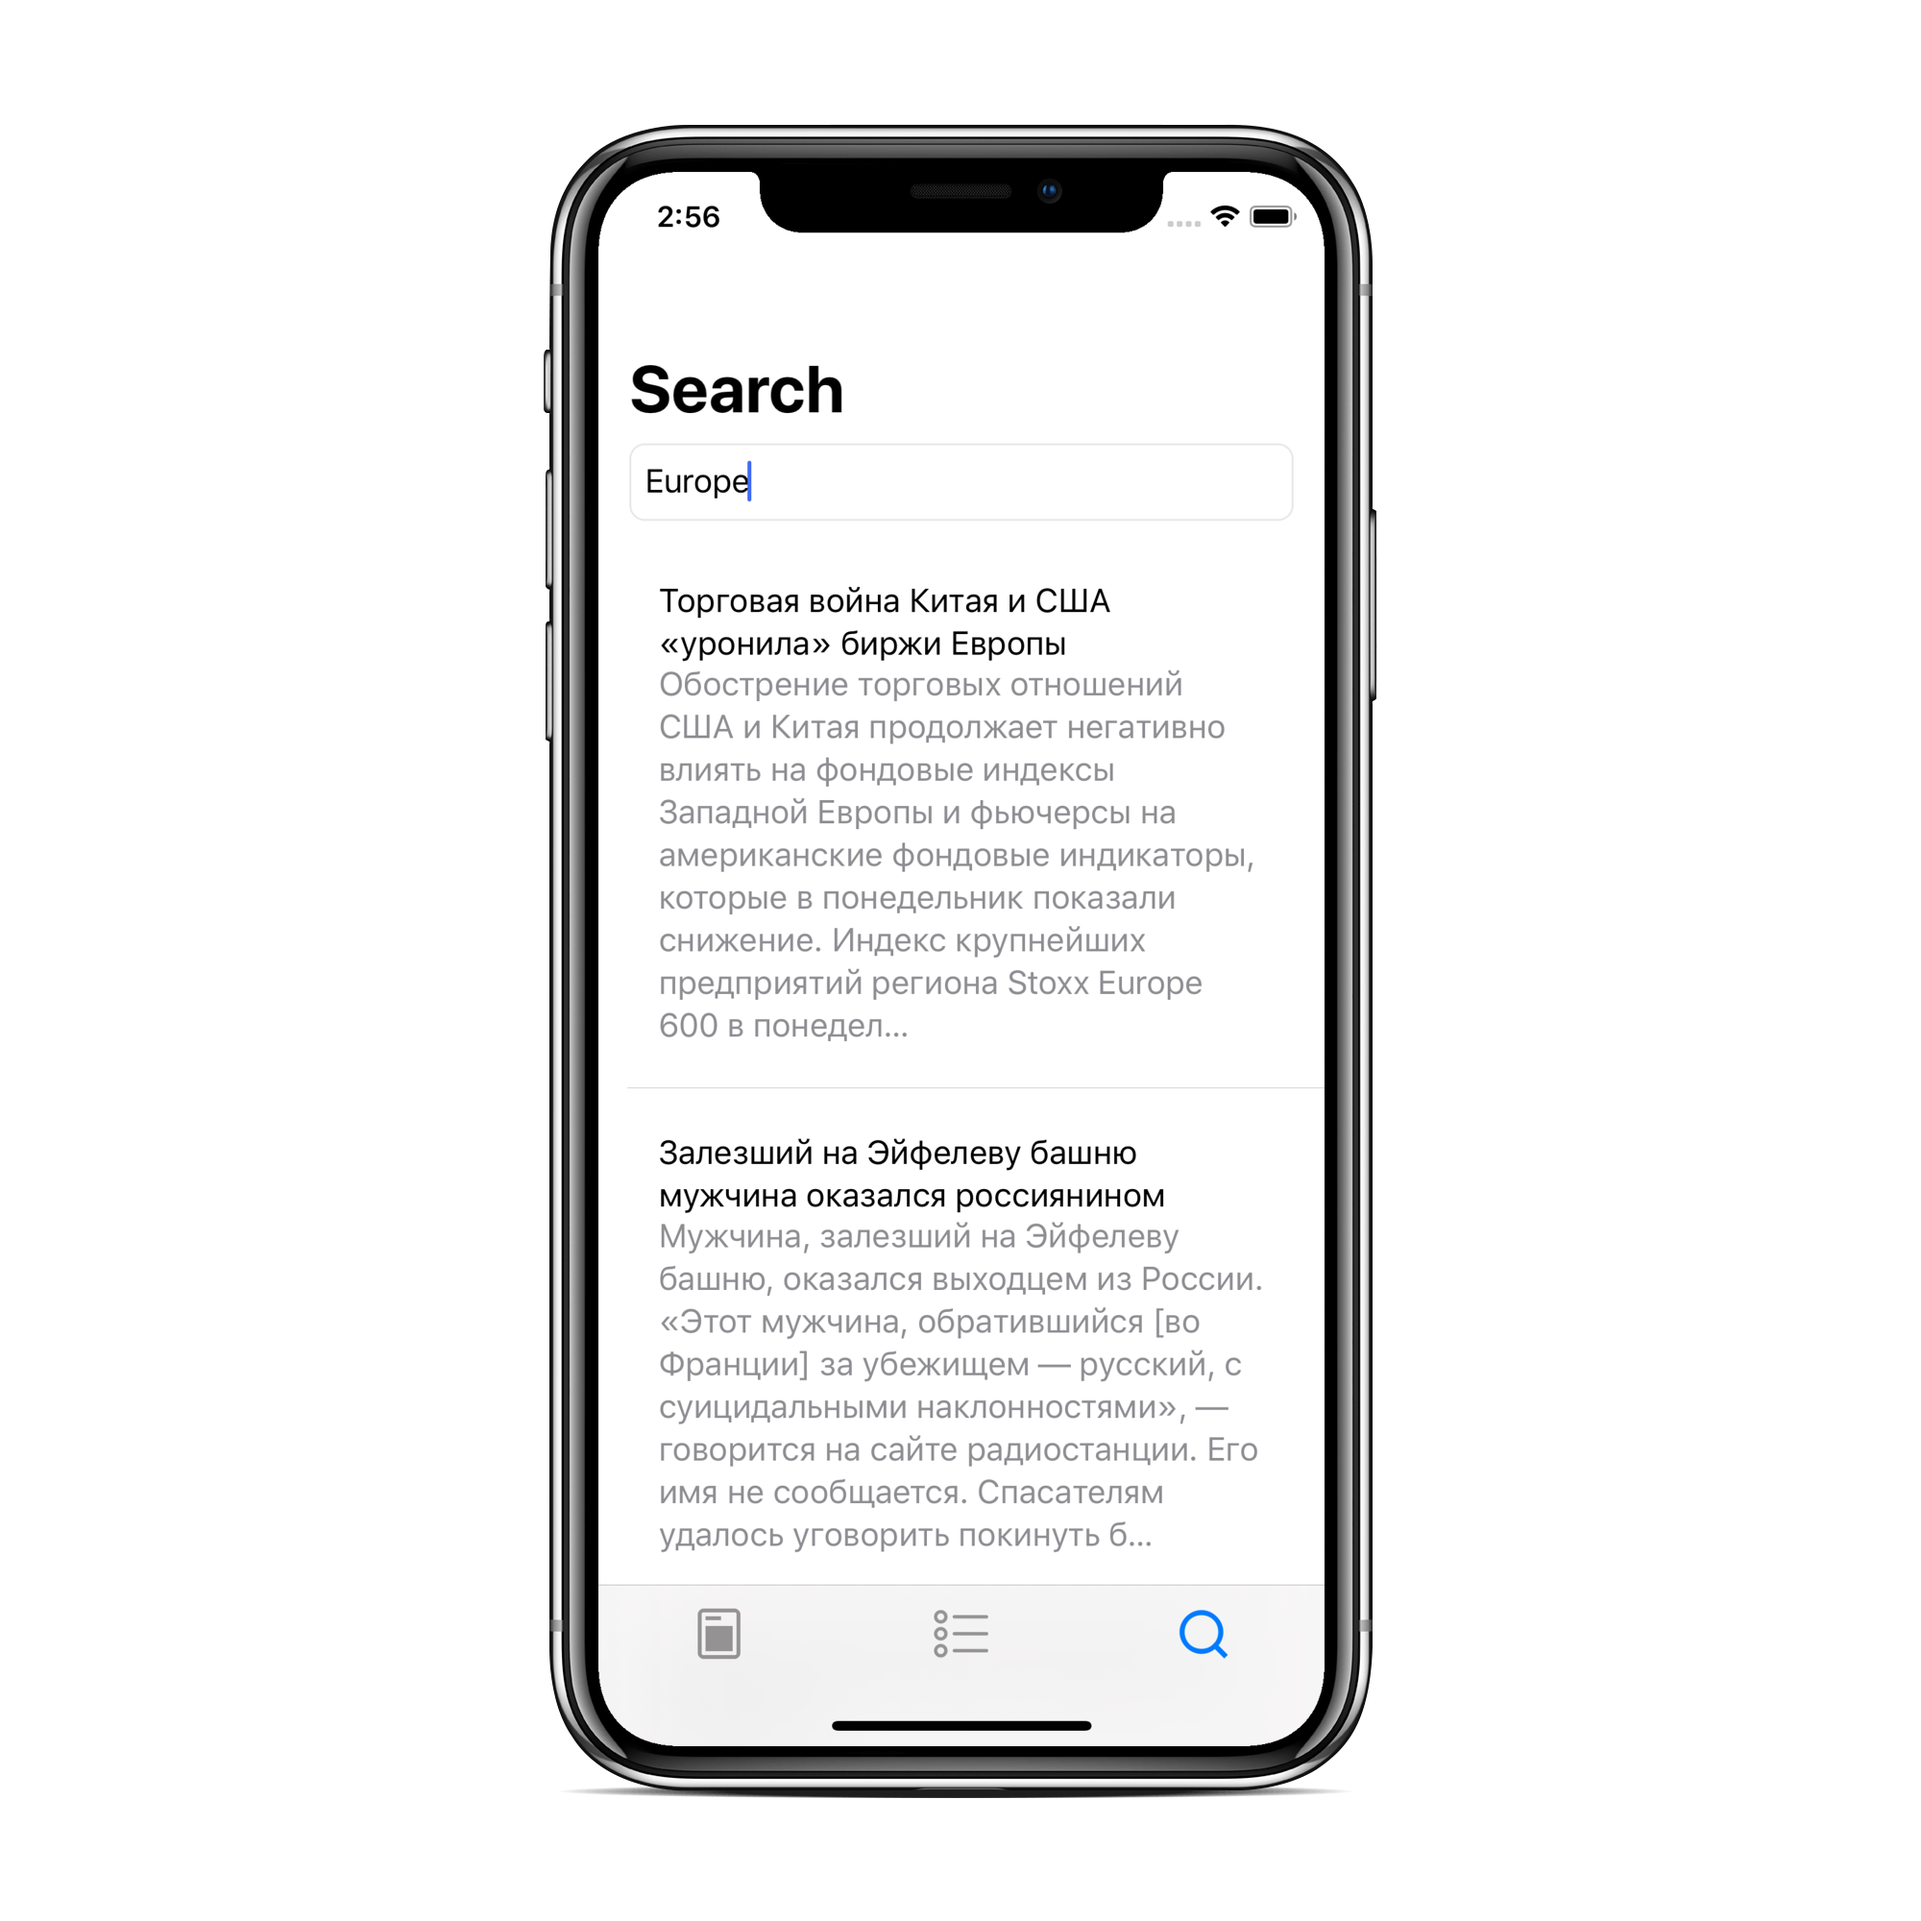
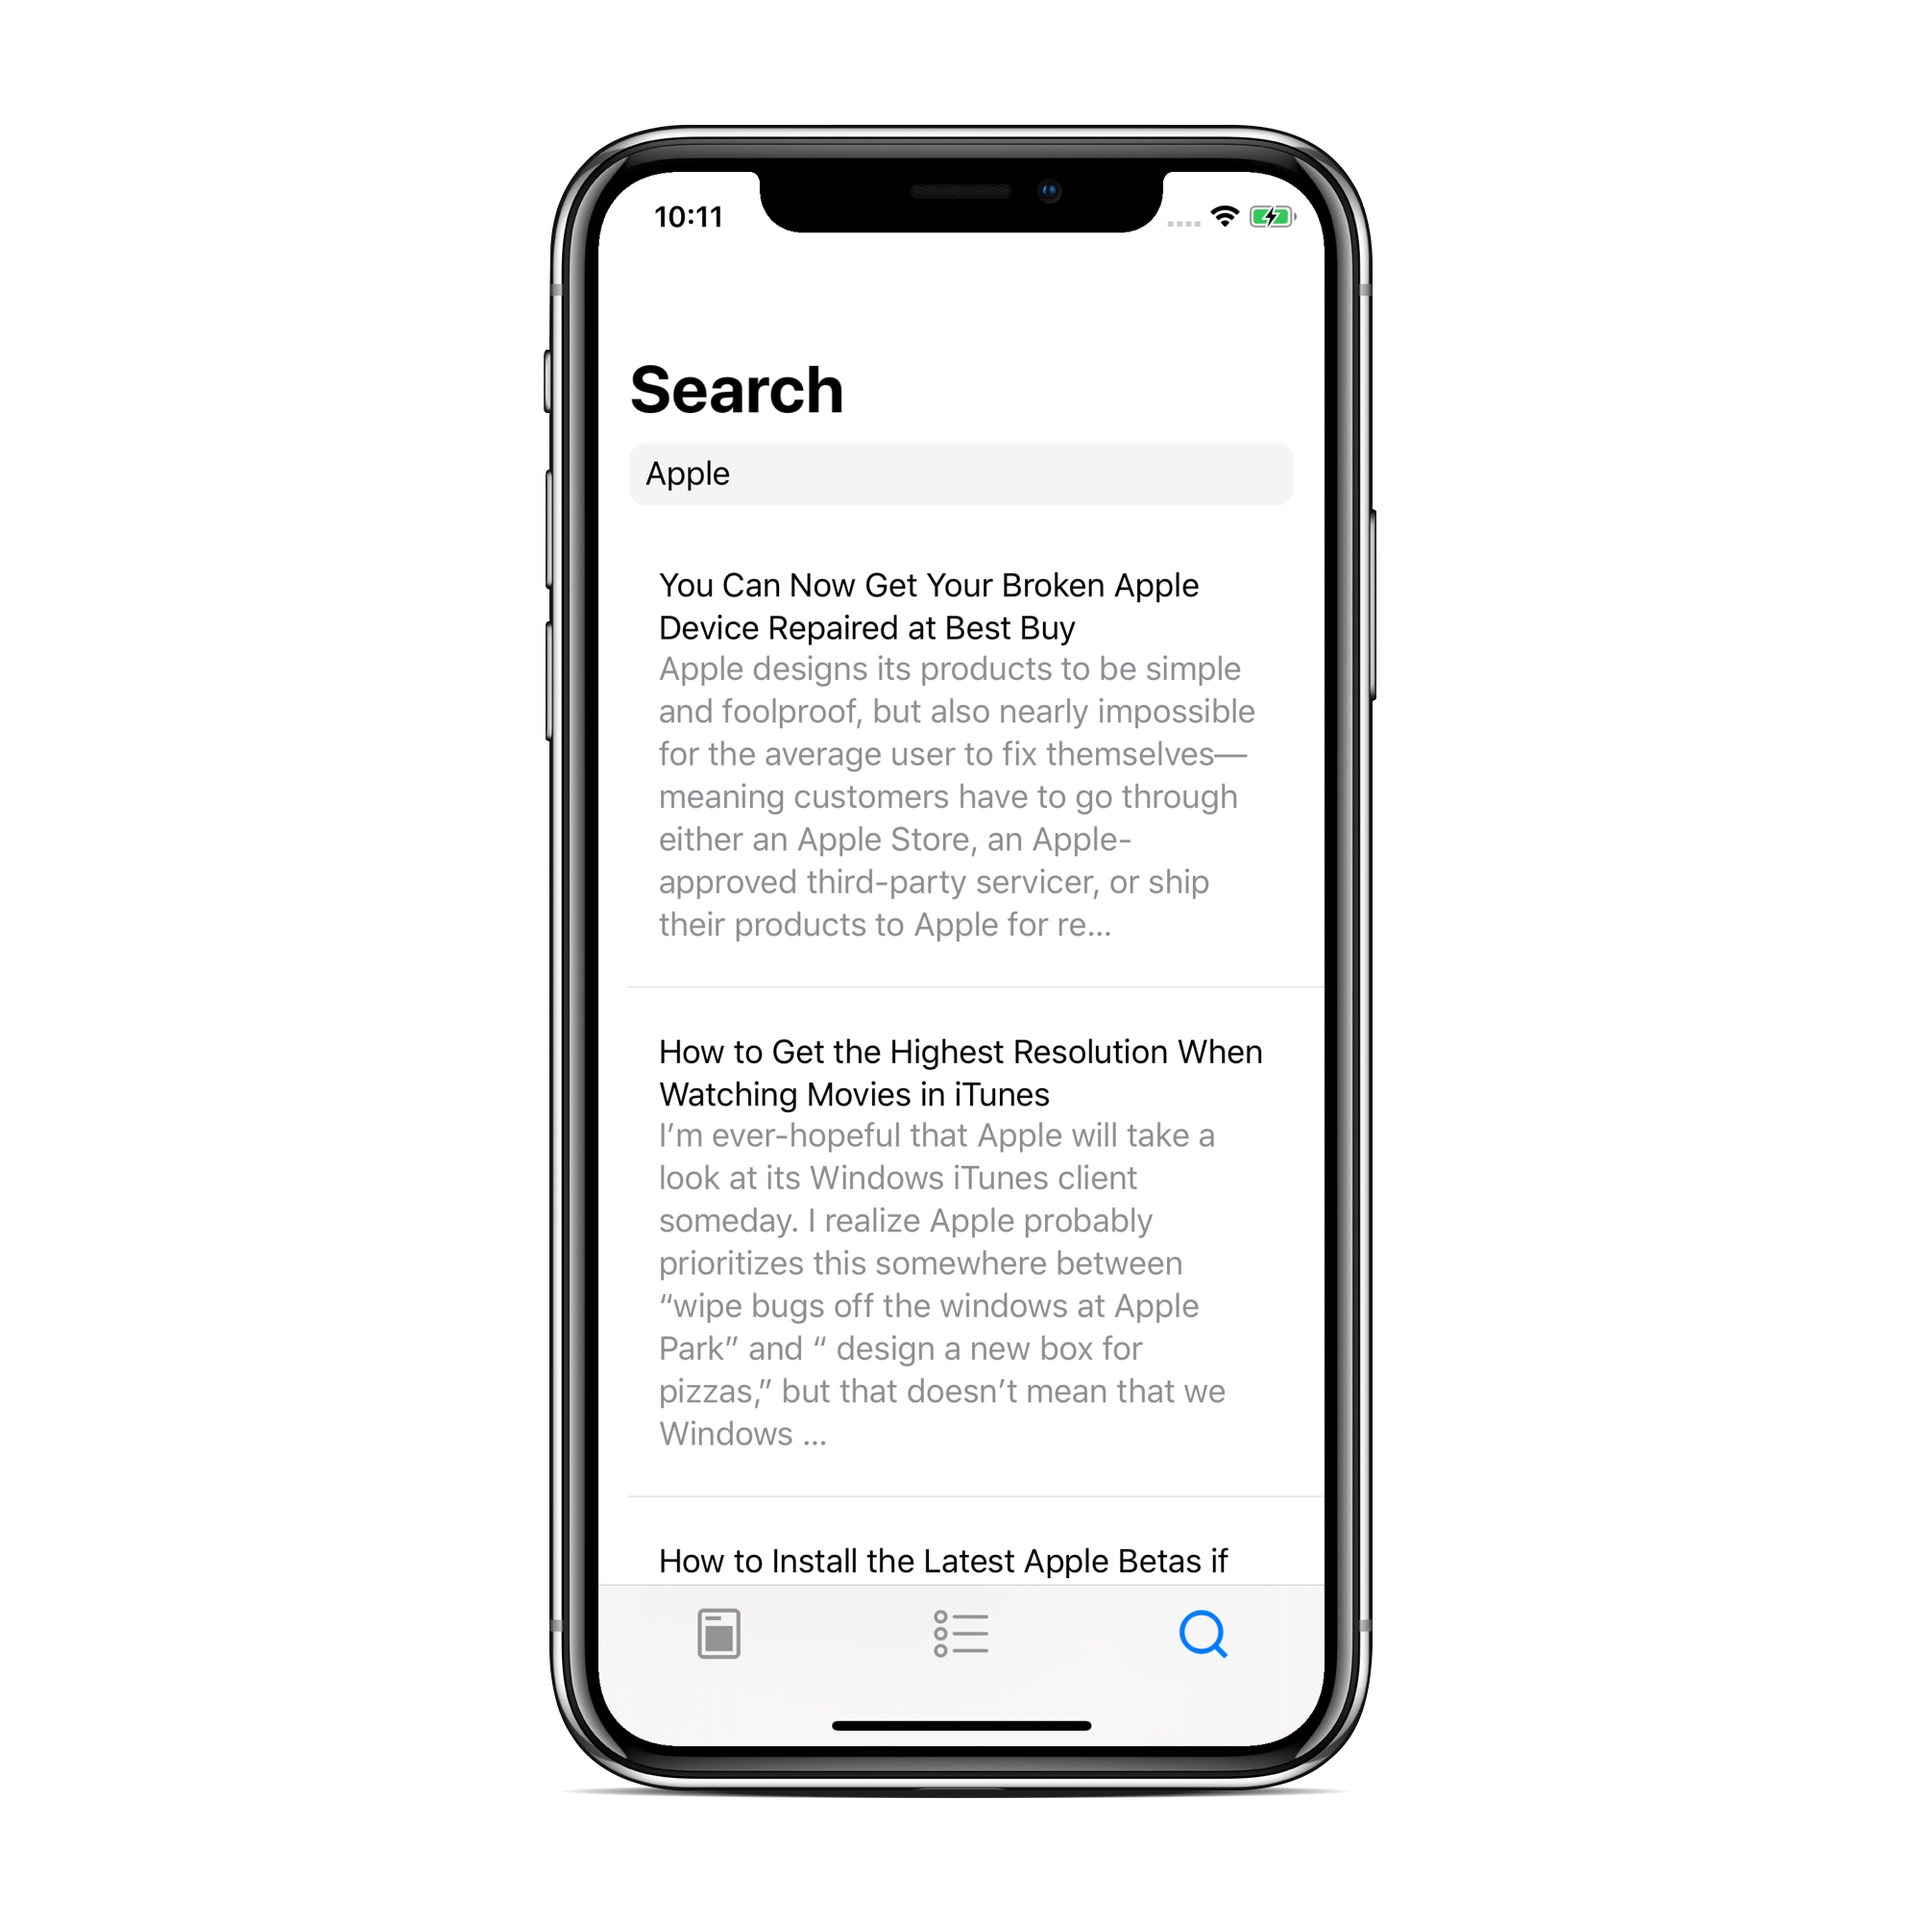
Search for articles view update

Changed region(s): [[0.341, 0.217, 0.651, 0.837], [0.651, 0.093, 0.682, 0.124], [0.341, 0.093, 0.372, 0.124]]

diff --git a/NewsApp With SwiftUI Framework/UI/Search/SearchForArticlesView.swift b/NewsApp With SwiftUI Framework/UI/Search/SearchForArticlesView.swift
@@ -16,19 +16,23 @@ struct SearchForArticlesView : View {
     var body: some View {
         NavigationView {
             VStack {
-                TextField($searchFilter,
-                    placeholder: Text("Search articles...".localized()),
+                TextField(
+                    $searchFilter,
+                    placeholder: Text("Search articles...".localized())
+                        .color(Color.gray),
                     onEditingChanged: { (opened) in
                         if !opened {
                             self.viewModel.searchForArticles(searchFilter: self.searchFilter)
                         }
-                })
-                .frame(height: 40)
-                .padding(EdgeInsets(top: 0, leading: 8, bottom: 0, trailing: 8))
-                .border(Color.gray.opacity(0.2), cornerRadius: 8)
-                .padding(EdgeInsets(top: 0, leading: 16, bottom: 0, trailing: 16))
-                
-                ArticlesList(articles: self.viewModel.articles)
+                    }
+                )
+                .padding([.leading, .trailing], 8)
+                .frame(height: 32)
+                .background(Color.gray.opacity(0.1))
+                .cornerRadius(8)
+                .padding([.leading, .trailing], 16)
+            
+                ArticlesList(articles: viewModel.articles)
             }
             .navigationBarTitle(Text("Search".localized()), displayMode: .large)
         }

diff --git a/NewsApp With SwiftUI Framework/UI/MainView/TopHeadlines/TopHeadlinesView.swift b/NewsApp With SwiftUI Framework/UI/MainView/TopHeadlines/TopHeadlinesView.swift
@@ -18,9 +18,9 @@ struct TopHeadlinesView : View {
                     TopHeadlineRow(imageURL: article.urlToImage ?? "")
                 }
             }
-            }
-            .onAppear {
-                self.viewModel.getTopHeadlines()
+        }
+        .onAppear {
+            self.viewModel.getTopHeadlines()
         }
     }
 }
